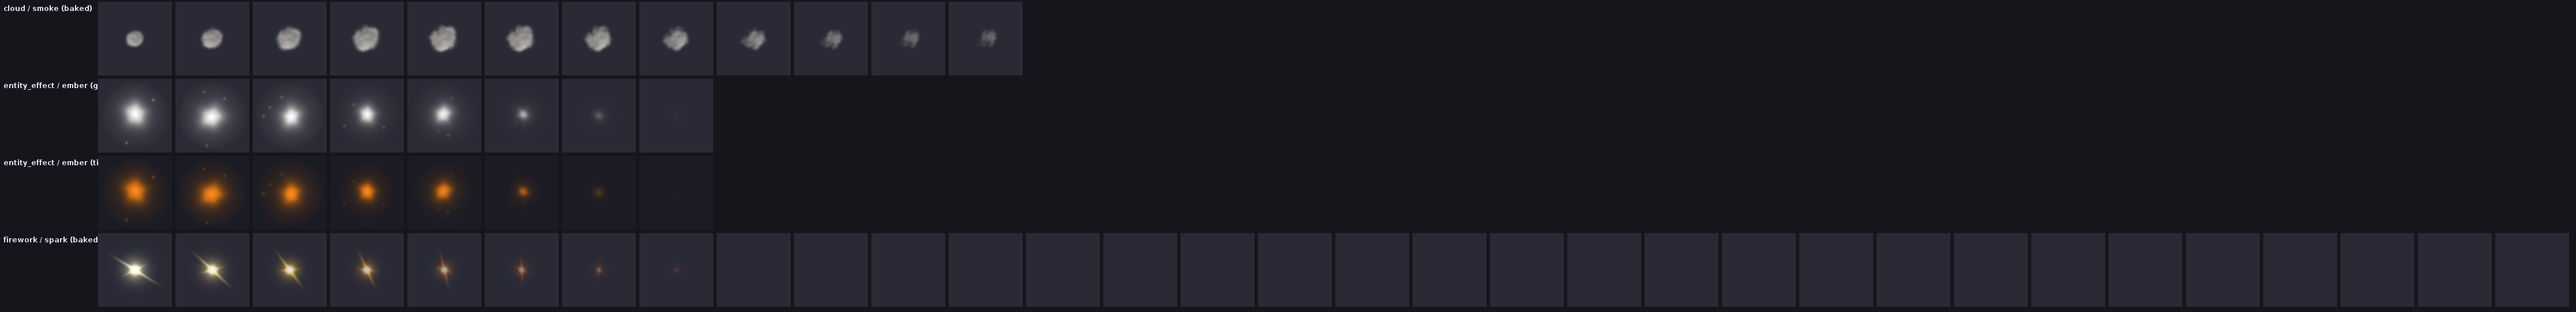
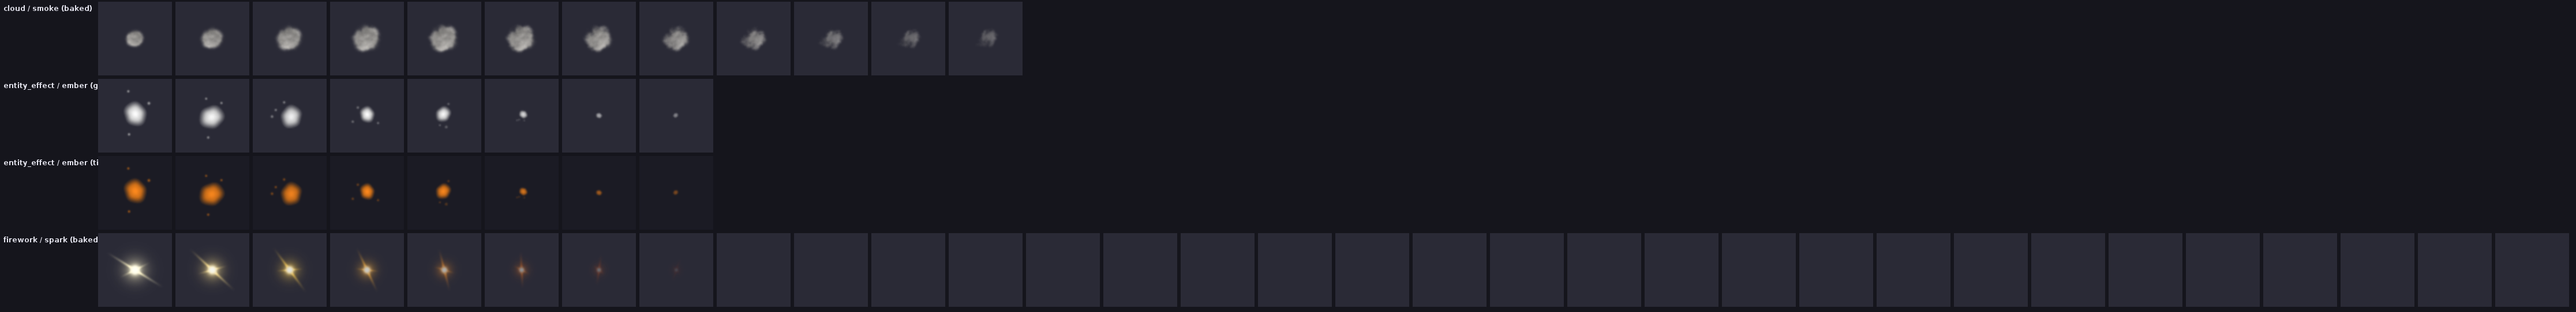
fix(particles): ember skin without the wide grey halo (bastion-s1 r21)
The entity_effect ember frames carried a 0.6-grey halo at alpha 0.1-0.26 spanning the whole quad.
The server tint multiplies it into a dim brown-orange, which translucent over the sky read as a
blue-grey disc around every ember. Now: opaque hot core, short falloff, darker grey only where alpha
is high, alpha < 0.1 zeroed (the particle shader discards it).

Changed region(s): [[0.0311, 0.5314, 0.218, 0.679], [0.0311, 0.2952, 0.218, 0.4428]]

diff --git a/tools/item-art/src/main/kotlin/com/astarworks/astera/itemart/ParticleSkinPainters.kt b/tools/item-art/src/main/kotlin/com/astarworks/astera/itemart/ParticleSkinPainters.kt
@@ -8,6 +8,7 @@ import kotlin.math.cos
 import kotlin.math.exp
 import kotlin.math.floor
 import kotlin.math.hypot
+import kotlin.math.max
 import kotlin.math.pow
 import kotlin.math.sin
 
@@ -90,39 +91,56 @@ internal object ParticleSkinPainters {
     // ---- ember (entity_effect, grey, server-tinted) -------------------------------------------------
 
     /**
-     * A lumpy glowing ember: a hot core that is the full tint colour with a darker rim, a faint halo, an outline
-     * that reshapes every frame (flicker) and a few specks orbiting it. It shrinks while it cools and fades out,
-     * since `entity_effect` has no fade of its own.
+     * A lumpy glowing ember: an opaque hot core at the full tint colour with a short falloff, an outline that
+     * reshapes every frame (flicker) and a few specks orbiting it. It shrinks while it cools and fades out, since
+     * `entity_effect` has no fade of its own.
+     *
+     * No wide low-alpha halo: the server tint multiplies the texture, so the old 0.6-grey halo at alpha 0.1-0.26 that
+     * spanned the whole quad became a dim brown-orange that, translucent over the sky, read as a blue-grey disc
+     * (bastion-s1 r21). Darker texels ([EMBER_MIN_LUMA]) only sit where alpha is still high.
+     * Alpha below [ALPHA_FLOOR] is zeroed because the particle shader discards it anyway (`a < 0.1`); what the PNG
+     * shows is what the client draws, and no wide low-alpha skirt survives as a hard-edged disc.
      */
     private fun ember(t: Double, i: Int, n: Int): Field {
         val shrink = smooth(0.0, 1.0, t)
-        val rBase = mix(0.50, 0.19, shrink) * (1.0 + 0.30 * (hash(i, 3, 11) - 0.5))
+        val rBase = mix(0.36, 0.08, shrink) * (1.0 + 0.30 * (hash(i, 3, 11) - 0.5))
         val cx = (hash(i, 1, 11) - 0.5) * 0.10
         val cy = (hash(i, 2, 11) - 0.5) * 0.10 - 0.05 * t
         val pa = hash(i, 4, 11) * 2 * PI
         val pb = hash(i, 5, 11) * 2 * PI
-        val fade = 1.0 - 0.97 * smooth(0.5, 1.0, t)
+        // Cools by shrinking; alpha fades only a little at the end (a translucent orange over the sky reads grey).
+        val fade = 1.0 - 0.55 * smooth(0.6, 1.0, t)
+        val flicker = 0.96 + 0.04 * sin(i * 2.1 + 1.0)
         val specks = (0 until 3).map { k ->
             val ang = hash(i, 20 + k, 11) * 2 * PI
-            val rad = rBase * (1.25 + 0.9 * hash(i, 30 + k, 11))
+            val rad = rBase * (1.35 + 0.7 * hash(i, 30 + k, 11))
             Triple(cx + rad * cos(ang), cy + rad * sin(ang), 0.030 + 0.012 * hash(i, 40 + k, 11))
         }
         return Field { x, y ->
             val dx = x - cx; val dy = y - cy
             val r = hypot(dx, dy)
             val th = atan2(dy, dx)
-            val rr = rBase * (1.0 + 0.07 * sin(2 * th + pa) + 0.05 * sin(5 * th + pb))
+            val rr = rBase * (1.0 + 0.07 * sin(2 * th + pa) + 0.03 * sin(5 * th + pb))
             val q = r / rr
-            val core = exp(-q * q * 2.2) * (0.88 + 0.12 * sin(i * 2.1 + 1.0))
-            val halo = 0.26 * exp(-(r / (rBase * 2.2)).pow(2) * 2.0)
-            var a = (core * 1.25 + halo).coerceIn(0.0, 1.0)
+            // Opaque hot body, then a short falloff (q 0.45 -> 1.15) that stays mostly above alpha 0.4: warm, not hazy.
+            var a = (1.0 - smooth(0.45, 1.15, q)) * flicker
             var speck = 0.0
             for ((sx, sy, w) in specks) speck += exp(-((x - sx).pow(2) + (y - sy).pow(2)) / (w * w))
-            a = (a + 0.7 * speck * (1.0 - t)).coerceIn(0.0, 1.0)
-            val g = 0.60 + 0.40 * exp(-q * q * 5.0)
-            Px(g, g, g, a * fade * edge(x, y))
+            a = max(a, (0.9 * speck * (1.0 - t)).coerceIn(0.0, 1.0))
+            a *= fade * edge(x, y)
+            if (a < ALPHA_FLOOR) a = 0.0
+            // Full tint at the centre, deeper (0.72 x tint) toward the rim where alpha is still high: a hot core with
+            // a warm falloff. The rim is never as dark as the old 0.6 halo, and never at low alpha.
+            val g = EMBER_MIN_LUMA + (1.0 - EMBER_MIN_LUMA) * exp(-q * q * 4.0)
+            Px(g, g, g, a)
         }
     }
+
+    /** Darkest grey an ember texel may have; the tint (not the texture) carries the hue and the warmth. */
+    private const val EMBER_MIN_LUMA = 0.72
+
+    /** The particle shader discards alpha < 0.1; zero it in the art so the PNG matches the client. */
+    private const val ALPHA_FLOOR = 0.1
 
     // ---- spark (firework, baked) ---------------------------------------------------------------------
 
